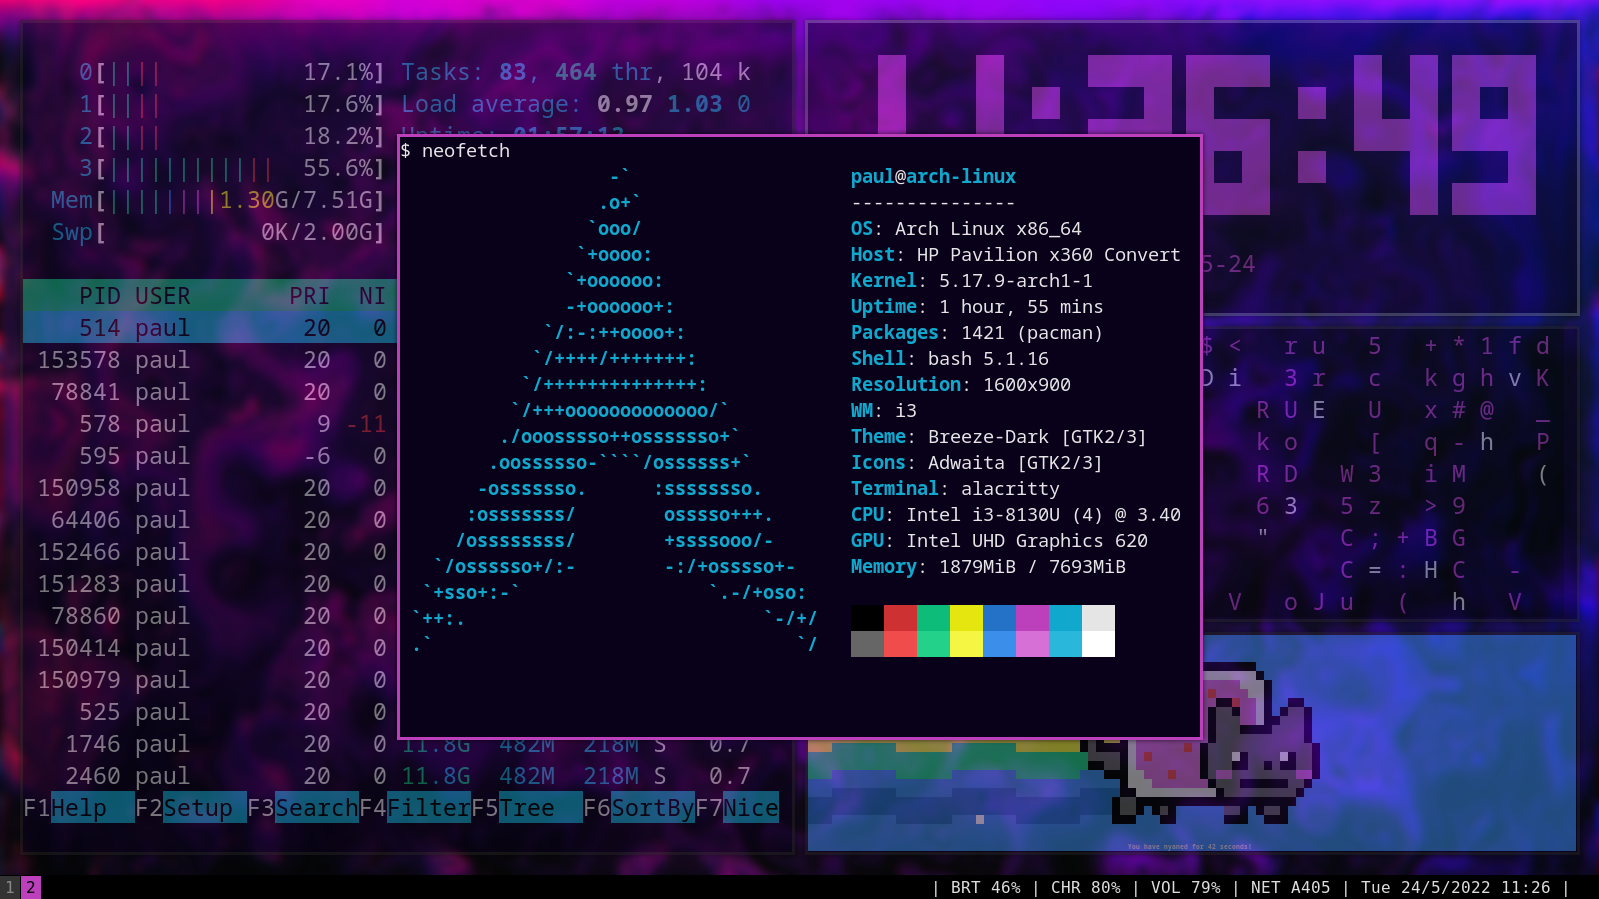
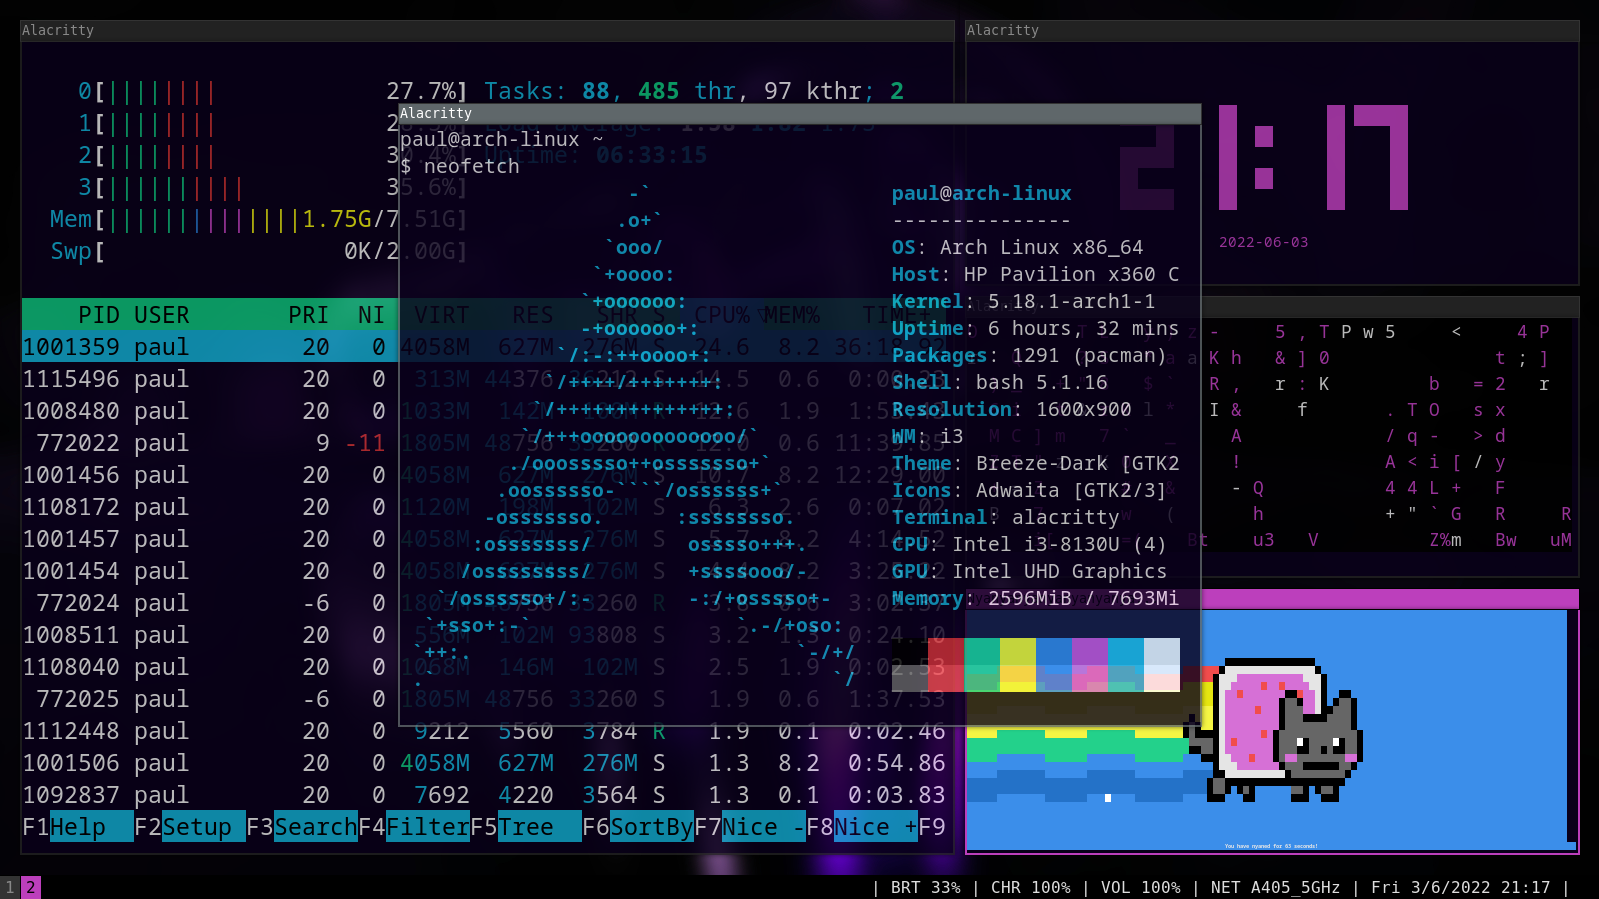
changed wallpaper

diff --git a/README.md b/README.md
@@ -5,8 +5,7 @@ Dotfiles for my build of arch linux
 ![i3wm rice](./images/i3.png)
 
 # Wallpaper
-![purple turbulence](./images/purple.png)
-![purple turbulence blurred](./images/purblur.png)
+![purple turbulence](./images/bulb.jpg)
 
 # Grub Wallpaper
 ![purple blocks](./images/grub.png)
